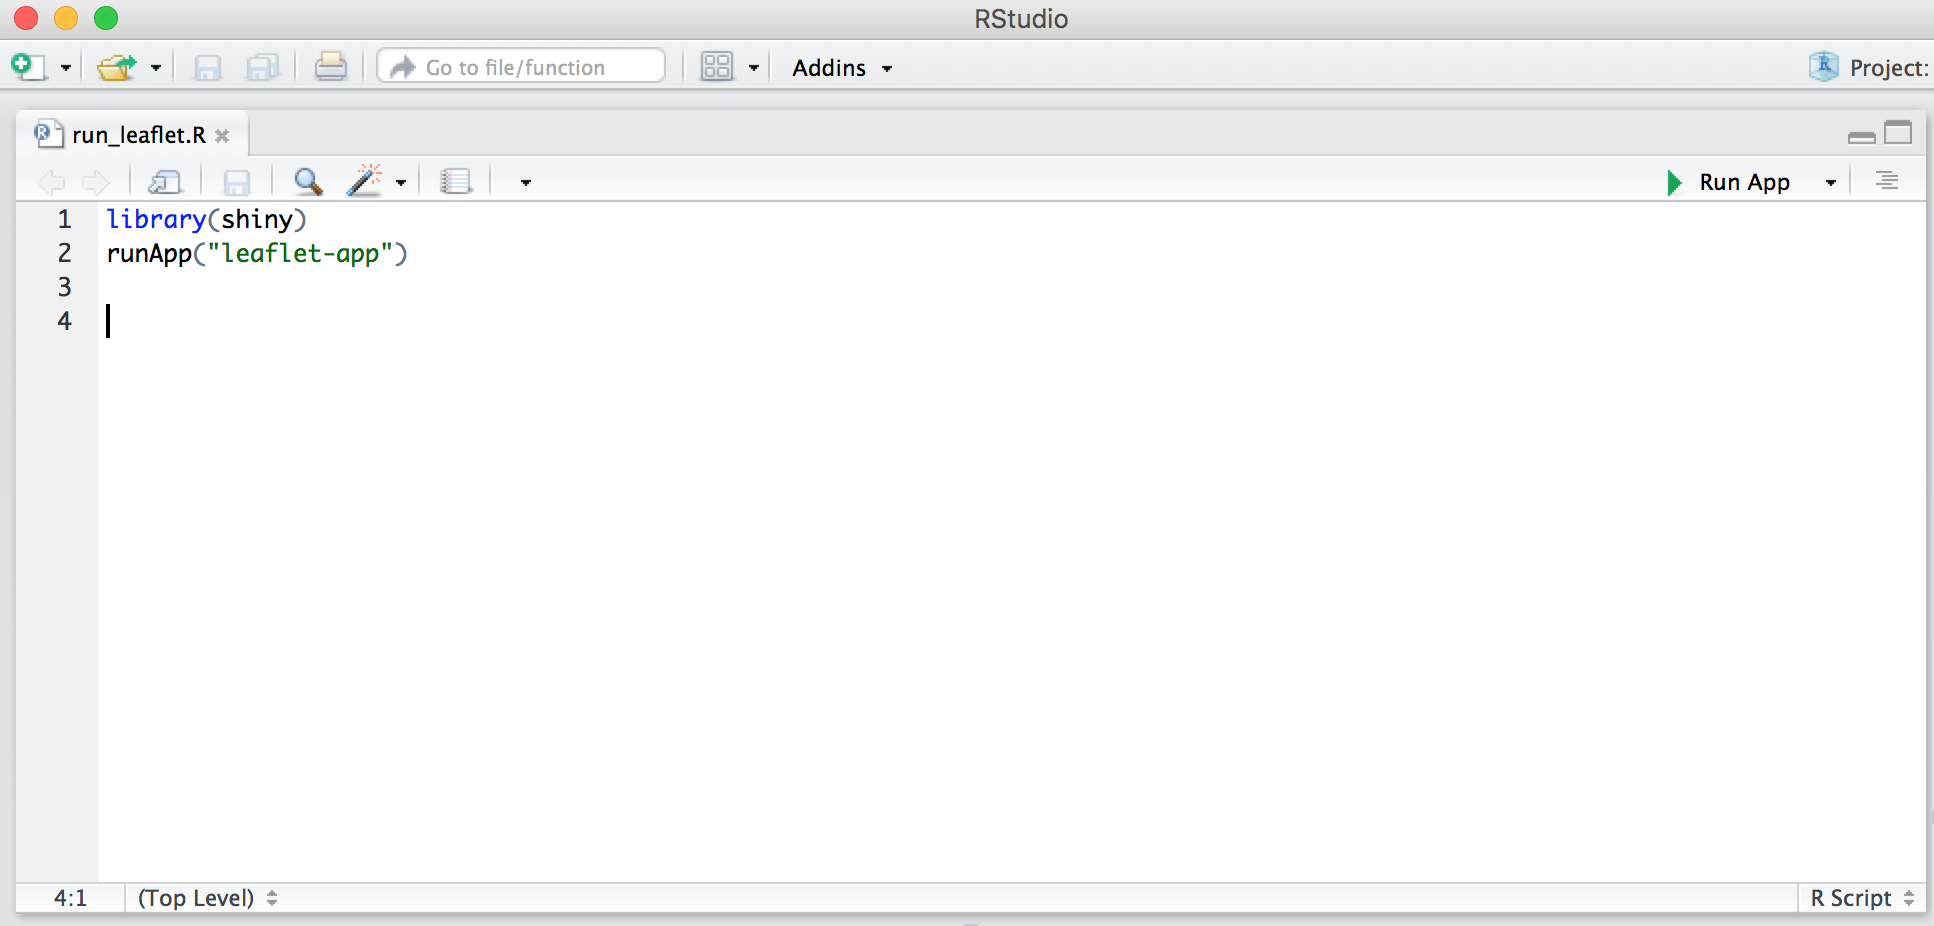
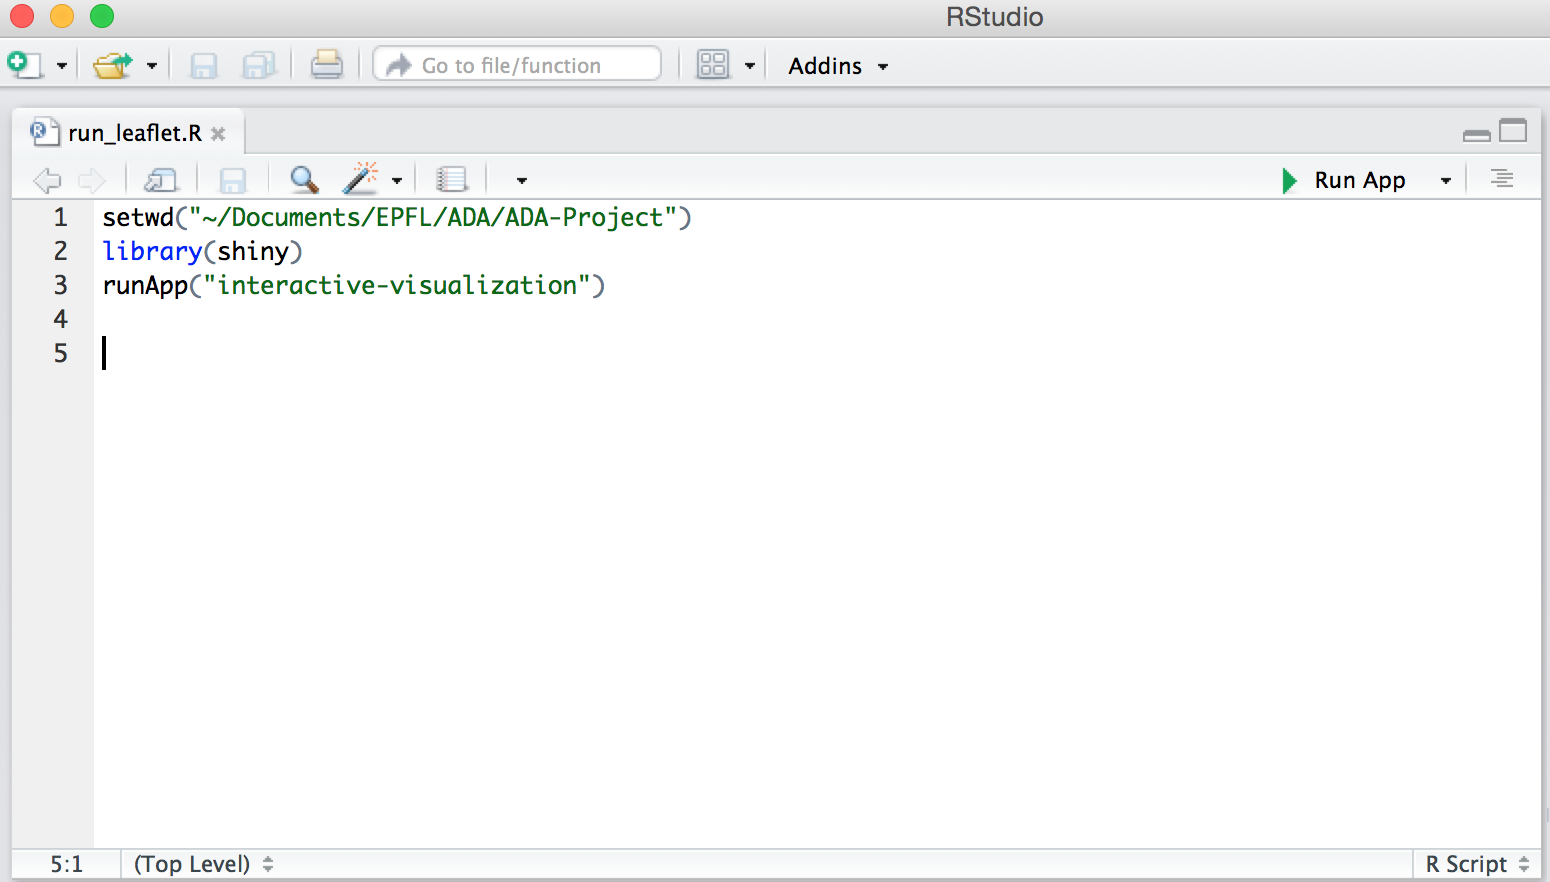
edited changes in readme after new repo names

diff --git a/interactive-visualization/README.md b/interactive-visualization/README.md
@@ -39,11 +39,7 @@ Alternatively, it is possible to clone the repository, run the app with the foll
 
 ![image](images_readme/1.png)
 
-* Change the directory to the root directory of this repository (where both the `run_leaflet.R` file and the `interactive_visualization` folder are) (go to "Session -> Set Working Directory -> Choose Directory…")
-
-![image](images_readme/2.png)
-
-![image](images_readme/3.png)
+* Type the command `setwd("/path/to/root_directory")` in RStudio, replacing the path to the root directory of this repository (where both the `run_leaflet.R` file and the `interactive_visualization` folder are).
 
 * Press the "Run app" button localizad in the same `run_leaflet.R` pane
 
